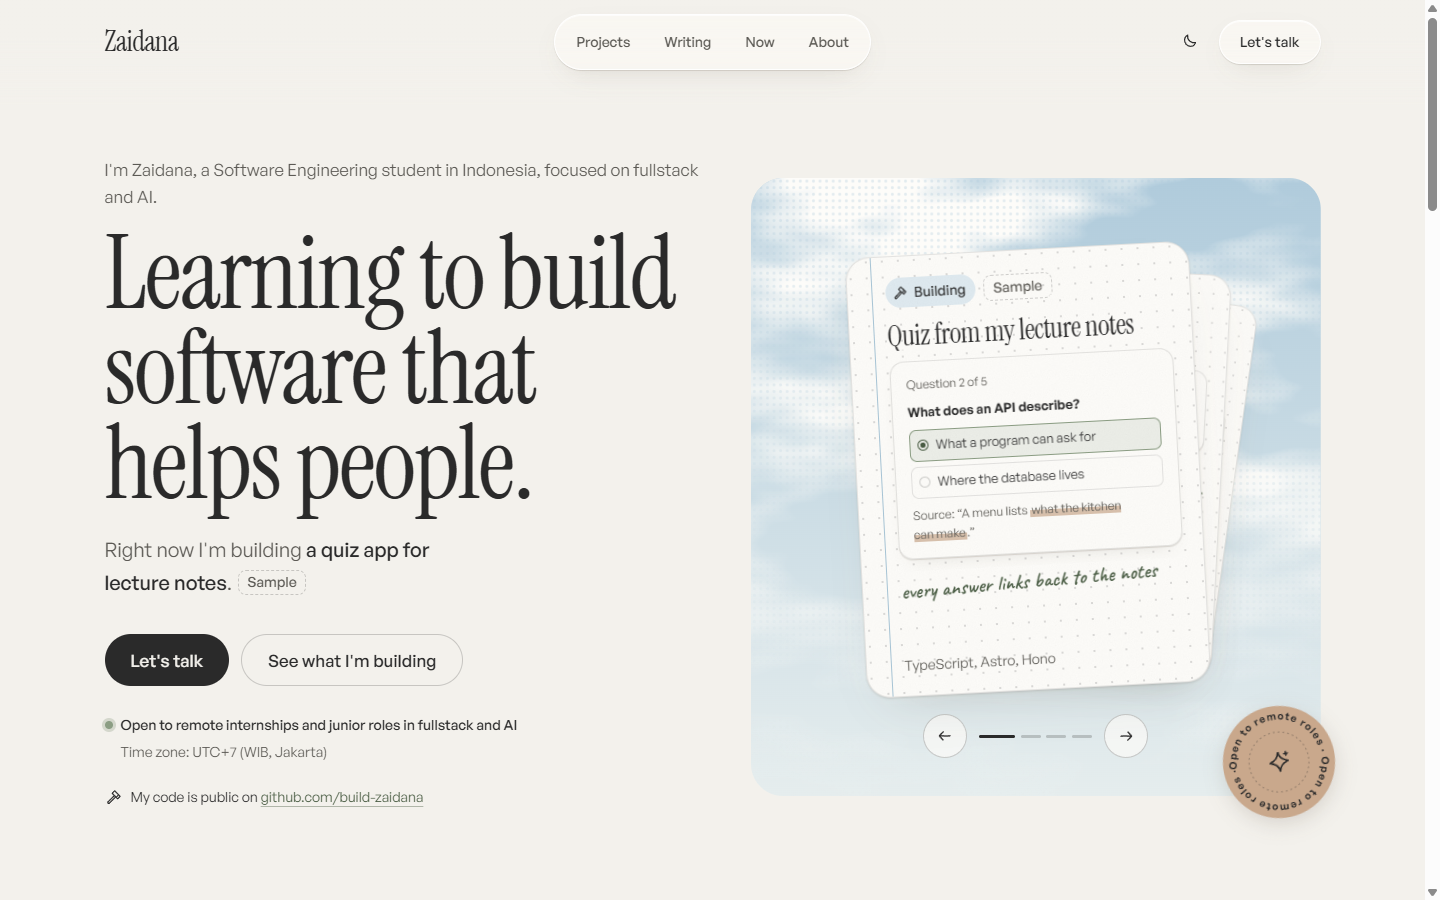
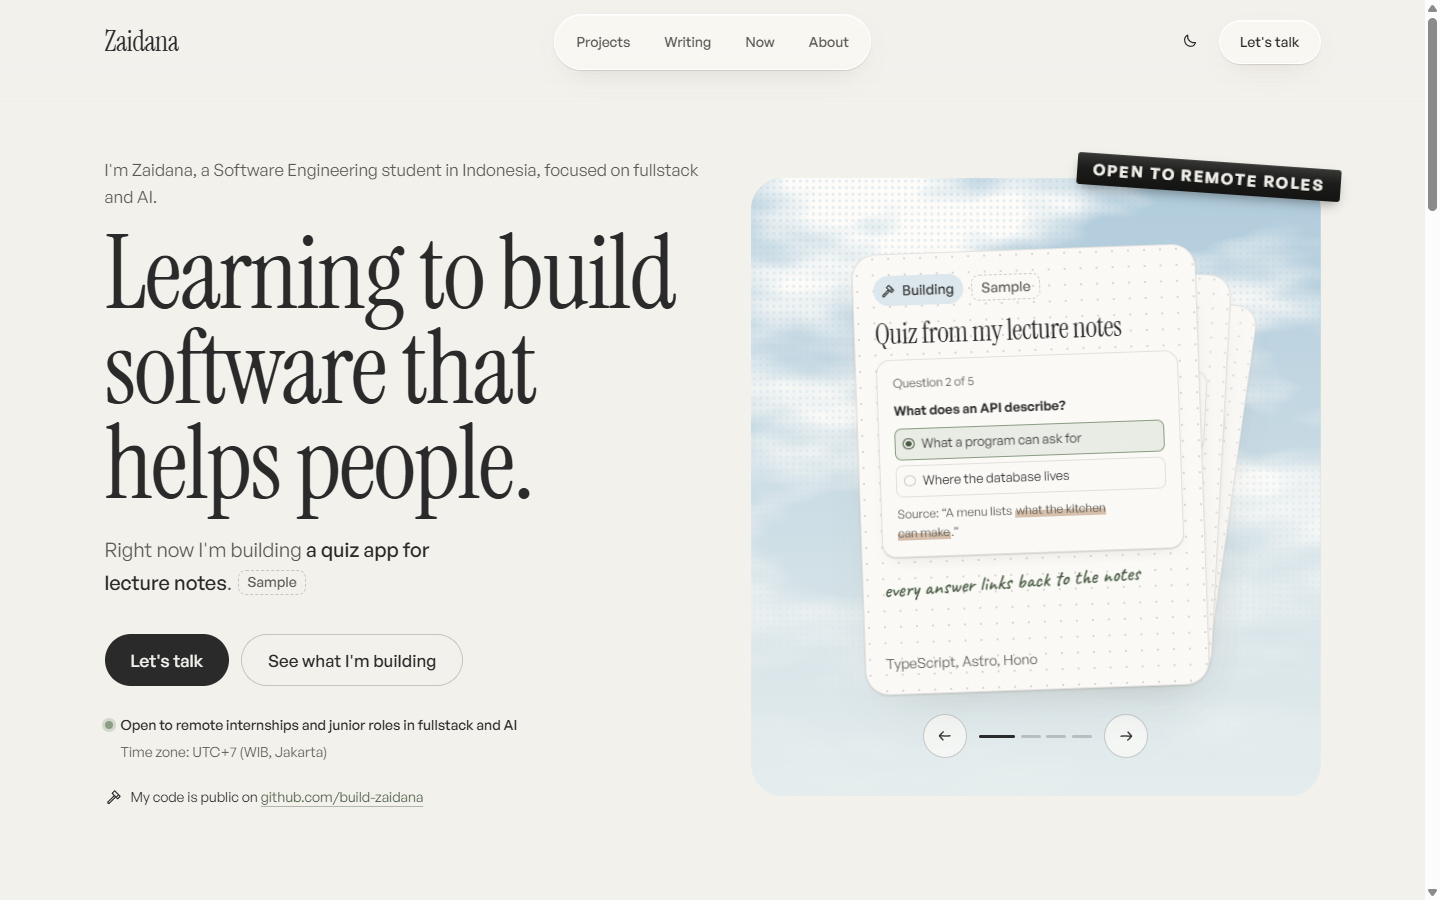
docs: status colors, label strip, rejected journal /now; screenshots

diff --git a/ARCHITECTURE.md b/ARCHITECTURE.md
@@ -51,7 +51,7 @@
 │   │   ├── SiteHeader.astro  # nav pil + menu mobile
 │   │   ├── SiteFooter.astro
 │   │   ├── WhereNext.astro   # 4 pintu navigasi (daylight)
-│   │   ├── ui/               # Button, StatusChip, SampleBadge, SketchIcon, SketchFilter, Sticker, ProgressiveFade
+│   │   ├── ui/               # Button, StatusChip, SampleBadge, SketchIcon, SketchFilter, LabelStrip, ProgressiveFade
 │   │   ├── cards/            # ProjectCard + ProjectArt (craft), WritingCard (notch), CalmCard (letters)
 │   │   └── home/             # Hero, HeroStack (perilaku), HeroCardFace (isi card notebook), SkyBackdrop, StoryReveal
 │   └── pages/              # routing berbasis file
@@ -89,7 +89,7 @@ Paralel dengan itu, `integrations/sample-report.ts` membaca frontmatter langsung
 
 **Hero stack:** `getHeroCards()` mengambil proyek teratas, entri /now terbaru, dan tulisan terbaru, lalu selalu menambahkan card asli "This site". Kata kerja kalimat hero mengikuti status proyek (idea → planning, building → building, shipped → improving). Field opsional `phrase` di proyek/tulisan dipakai untuk kalimat, dengan fallback judul berkutip. Kalau card depan adalah sample, kalimatnya ikut berlabel Sample.
 
-**Isi card (notebook):** card adalah halaman kertas dot-grid dengan garis margin berwarna aksen (`HeroStack`). `HeroCardFace` menggambar isi spesifik per jenis card sebagai "printout" lurus, ditambah checklist (progres situs dari `siteProgress` di `site.ts`, topik belajar lain dari /now) yang disembunyikan di layar < 768px. Field opsional di konten: `heroNote` (catatan tangan, proyek/tulisan/now), `highlight` (frasa yang distabilo di paragraf pembuka artikel, diambil otomatis dari body), `snippet` (kode di entri /now). Tanpa field itu, card tetap tampil tanpa elemen tersebut.
+**Isi card (notebook):** card adalah halaman kertas dot-grid tanpa garis margin (`HeroStack`). `HeroCardFace` menggambar isi spesifik per jenis card sebagai "printout" lurus, ditambah checklist (progres situs dari `siteProgress` di `site.ts`, topik belajar lain dari /now) yang disembunyikan di layar < 768px. Field opsional di konten: `heroNote` (catatan tangan, proyek/tulisan/now), `highlight` (frasa yang distabilo di paragraf pembuka artikel, diambil otomatis dari body), `snippet` (kode di entri /now). Tanpa field itu, card tetap tampil tanpa elemen tersebut.
 
 ## 4. Design tokens
 
@@ -113,7 +113,9 @@ Warna dipetakan ke utility Tailwind di `global.css` lewat `@theme inline` (`bg-p
 | Aksen teks (link, focus) | `--accent` | `#4a5d44` sage tua | `#aec2a5` sage muda |
 | Aksen permukaan | `--sage` `--sky` `--tan` | `#8b9d83` `#a8c5d6` `#c9a88c` | sama / sedikit lebih terang |
 | Teks di atas isian aksen | `--on-fill` | `#2a2a2a` | `#161915` |
-| Tint card proyek | `--tint-sage/sky/tan` | pastel terang | versi gelap berwarna |
+| Card proyek (warna = status) | `--tint-building` (building), garis putus-putus (idea), `--deep-sage` (shipped) | `#d9e2d2` | `#26301f` |
+| Tint chip card hero | `--tint-sage/sky/tan` | pastel terang | versi gelap berwarna |
+| Strip label | `--tape` + `--on-tape` | `#1c1c1a` / `#f1efe9` | sama (plastik hitam) |
 | Card tulisan gelap | `--deep-sage`, `--deep-ink` + `--on-deep(-soft)` | `#3e4b39`, `#2a2a2a` | `#33402f`, `#332c25` (selalu lebih terang dari halaman) |
 
 Sage = aksen utama, sky = pendukung, tan = isian hover yang hangat. **Tidak ada navy/biru tua.** `--sage`, `--sky`, dan `--tan` terlalu terang untuk teks, jadi hanya dipakai sebagai permukaan (sesuai CLAUDE.md).
@@ -128,17 +130,24 @@ Sage = aksen utama, sky = pendukung, tan = isian hover yang hangat. **Tidak ada 
 | light | `--ink` | `--surface` | 11.02:1 | ✅ | Text on calm cards |
 | light | `--ink-soft` | `--surface` | 5.29:1 | ✅ | Secondary text on calm cards |
 | light | `--ink` | `--surface-raised` | 13.99:1 | ✅ | Nav, raised panels |
-| light | `--ink` | `--tint-sage` | 11.39:1 | ✅ | Project card (sage) |
-| light | `--ink-soft` | `--tint-sage` | 5.47:1 | ✅ | Project card meta (sage) |
-| light | `--ink` | `--tint-sky` | 11.73:1 | ✅ | Project card (sky) |
-| light | `--ink-soft` | `--tint-sky` | 5.63:1 | ✅ | Project card meta (sky) |
-| light | `--ink` | `--tint-tan` | 11.45:1 | ✅ | Project card (tan) |
-| light | `--ink-soft` | `--tint-tan` | 5.50:1 | ✅ | Project card meta (tan) |
+| light | `--ink` | `--tint-building` | 10.77:1 | ✅ | Project card (building) |
+| light | `--ink-soft` | `--tint-building` | 5.17:1 | ✅ | Project card meta (building) |
+| light | `--on-deep` | `--deep-sage` | 8.26:1 | ✅ | Project card (shipped) |
+| light | `--on-deep-soft` | `--deep-sage` | 5.40:1 | ✅ | Project card meta (shipped) |
+| light | `--on-tape` | `--tape` | 14.84:1 | ✅ | Label strip (hero) |
+| light | `--ink` | `--tint-sage` | 11.39:1 | ✅ | Hero card chip (sage) |
+| light | `--ink` | `--tint-sky` | 11.73:1 | ✅ | Hero card chip (sky) |
+| light | `--ink` | `--tint-tan` | 11.45:1 | ✅ | Hero card chip (tan) |
 | light | `--on-deep` | `--deep-sage` | 8.26:1 | ✅ | Writing card (deep sage) |
 | light | `--on-deep` | `--deep-ink` | 12.81:1 | ✅ | Writing card (charcoal) |
 | light | `--on-deep-soft` | `--deep-sage` | 5.40:1 | ✅ | Writing card meta (deep sage) |
 | light | `--on-deep-soft` | `--deep-ink` | 8.37:1 | ✅ | Writing card meta (charcoal) |
 | light | `--paper` | `--ink` | 12.72:1 | ✅ | Primary button label |
+| light | `--accent` | `--tint-sky` | 5.84:1 | ✅ | Handwritten notes on hero cards (sky) |
+| light | `--accent` | `--tint-sage` | 5.67:1 | ✅ | Handwritten notes on hero cards (sage) |
+| light | `--accent` | `--tint-tan` | 5.70:1 | ✅ | Handwritten notes on hero cards (tan) |
+| light | `--accent` | `--surface-raised` | 6.96:1 | ✅ | Code keywords |
+| light | `--code-type` | `--surface-raised` | 5.69:1 | ✅ | Code type names and numbers |
 | light | `--on-fill` | `--sage` | 4.95:1 | ✅ | Text on sage fill (hover states) |
 | light | `--on-fill` | `--sky` | 7.94:1 | ✅ | Arrow button on sky |
 | light | `--on-fill` | `--tan` | 6.47:1 | ✅ | Hover fill on tan |
@@ -148,17 +157,24 @@ Sage = aksen utama, sky = pendukung, tan = isian hover yang hangat. **Tidak ada 
 | dark | `--ink` | `--surface` | 13.25:1 | ✅ | Text on calm cards |
 | dark | `--ink-soft` | `--surface` | 6.59:1 | ✅ | Secondary text on calm cards |
 | dark | `--ink` | `--surface-raised` | 11.52:1 | ✅ | Nav, raised panels |
-| dark | `--ink` | `--tint-sage` | 12.29:1 | ✅ | Project card (sage) |
-| dark | `--ink-soft` | `--tint-sage` | 6.12:1 | ✅ | Project card meta (sage) |
-| dark | `--ink` | `--tint-sky` | 12.83:1 | ✅ | Project card (sky) |
-| dark | `--ink-soft` | `--tint-sky` | 6.38:1 | ✅ | Project card meta (sky) |
-| dark | `--ink` | `--tint-tan` | 12.71:1 | ✅ | Project card (tan) |
-| dark | `--ink-soft` | `--tint-tan` | 6.32:1 | ✅ | Project card meta (tan) |
+| dark | `--ink` | `--tint-building` | 11.45:1 | ✅ | Project card (building) |
+| dark | `--ink-soft` | `--tint-building` | 5.70:1 | ✅ | Project card meta (building) |
+| dark | `--on-deep` | `--deep-sage` | 9.11:1 | ✅ | Project card (shipped) |
+| dark | `--on-deep-soft` | `--deep-sage` | 5.37:1 | ✅ | Project card meta (shipped) |
+| dark | `--on-tape` | `--tape` | 14.84:1 | ✅ | Label strip (hero) |
+| dark | `--ink` | `--tint-sage` | 12.29:1 | ✅ | Hero card chip (sage) |
+| dark | `--ink` | `--tint-sky` | 12.83:1 | ✅ | Hero card chip (sky) |
+| dark | `--ink` | `--tint-tan` | 12.71:1 | ✅ | Hero card chip (tan) |
 | dark | `--on-deep` | `--deep-sage` | 9.11:1 | ✅ | Writing card (deep sage) |
 | dark | `--on-deep` | `--deep-ink` | 11.43:1 | ✅ | Writing card (charcoal) |
 | dark | `--on-deep-soft` | `--deep-sage` | 5.37:1 | ✅ | Writing card meta (deep sage) |
 | dark | `--on-deep-soft` | `--deep-ink` | 6.73:1 | ✅ | Writing card meta (charcoal) |
 | dark | `--paper` | `--ink` | 14.74:1 | ✅ | Primary button label |
+| dark | `--accent` | `--tint-sky` | 8.13:1 | ✅ | Handwritten notes on hero cards (sky) |
+| dark | `--accent` | `--tint-sage` | 7.79:1 | ✅ | Handwritten notes on hero cards (sage) |
+| dark | `--accent` | `--tint-tan` | 8.05:1 | ✅ | Handwritten notes on hero cards (tan) |
+| dark | `--accent` | `--surface-raised` | 7.30:1 | ✅ | Code keywords |
+| dark | `--code-type` | `--surface-raised` | 7.65:1 | ✅ | Code type names and numbers |
 | dark | `--on-fill` | `--sage` | 6.12:1 | ✅ | Text on sage fill (hover states) |
 | dark | `--on-fill` | `--sky` | 10.90:1 | ✅ | Arrow button on sky |
 | dark | `--on-fill` | `--tan` | 9.79:1 | ✅ | Hover fill on tan |
@@ -202,7 +218,7 @@ draft: false # true = tidak tampil di production
 Isi artikel…
 ```
 
-**Proyek baru:** buat `src/content/projects/<slug>.md` dengan field `title`, `summary`, `status` (`idea | building | shipped`), `stack`, `startedAt`, `tint` (`sage | sky | tan`), dan opsional `updatedAt`, `repo`, `demo`, `featured`. Body memakai heading **Problem → Approach → Result → Learnings**.
+**Proyek baru:** buat `src/content/projects/<slug>.md` dengan field `title`, `summary`, `status` (`idea | building | shipped`), `stack`, `startedAt`, `tint` (`sage | sky | tan`, hanya untuk chip card hero; warna card proyek mengikuti `status`), dan opsional `updatedAt`, `repo`, `demo`, `featured`. Body memakai heading **Problem → Approach → Result → Learnings**.
 
 **Update /now:** buat file baru per bulan `src/content/now/YYYY-MM.md` (field `month`, `learning`, `building`, `reading`). Entri terbaru otomatis menjadi /now.
 
@@ -253,7 +269,7 @@ Card stack **tidak pernah autoplay**. Durasi 150–400ms. `prefers-reduced-motio
 
 - **Penamaan:** komponen `PascalCase.astro`; modul `lib/` `camelCase.ts`; token CSS `kebab-case`; slug konten `kebab-case` (menjadi URL).
 - **Urutan @media:** aturan `@media` yang menimpa harus ditulis **setelah** aturan dasarnya (specificity sama → yang terakhir menang). Bug ini sudah terjadi dua kali (foto About, checklist hero).
-- **Styling:** Tailwind untuk layout/spacing sederhana di halaman. Efek kompleks (notch, glass, card) memakai `<style>` scoped di komponen dengan `var(--token)`. Hindari nama kelas yang bentrok dengan utility Tailwind (kasus nyata: `.underline`).
+- **Styling:** Tailwind untuk layout/spacing sederhana di halaman. Efek kompleks (notch, glass, card) memakai `<style>` scoped di komponen dengan `var(--token)`. Hindari nama kelas yang bentrok dengan utility Tailwind (kasus nyata: `.underline`, `.col-1`/`.col-2`, yang di Tailwind 4 menjadi `grid-column`).
 - **Scan Tailwind:** Tailwind hanya memindai kode. `docs/`, `.claude/`, dan `*.md` di root dikecualikan dengan `@source not` di `global.css`, karena teks dokumentasi sempat menghasilkan ±2 KB kelas CSS yang tidak terpakai.
 - **Scoped CSS + komponen anak:** selector yang menargetkan root komponen anak butuh `:global()`. Untuk mengubah warna di dalam komponen anak, gunakan custom property (contoh: `--badge-fg` di `SampleBadge`), bukan selector dari luar.
 - **A11y:** satu gaya focus global (`:focus-visible`, outline `--focus`). Target sentuh ≥ 44px. Card yang bisa diklik memakai pola *stretched link* (satu `<a>` di judul, `::after` menutupi card). Skip link memakai pola *visually hidden* (clip).
@@ -291,3 +307,5 @@ Card stack **tidak pernah autoplay**. Durasi 150–400ms. `prefers-reduced-motio
 | 015 | Scroll reveal dengan CSS scroll-driven animations | Nol JS, mudah dimatikan, fallback teks penuh | GSAP ScrollTrigger |
 | 016 | Timeline sebagai collection `file()` YAML | Satu file mudah diedit, ikut guard sample | Array di halaman (lolos dari guard) |
 | 017 | Card hero bergaya notebook dengan isi dari field konten | Personal dan spesifik, tapi tetap data-driven (tidak ada klaim hardcoded) | Skeleton generik (terlalu polos), kolase (bertabrakan dengan tumpukan) |
+| 018 | Warna card proyek mengikuti status | Warna punya makna dan jujur (ide tampil sebagai sketsa); status tetap tertulis di chip (WCAG 1.4.1) | Tiga pastel per proyek (kusam, acak), satu warna (datar), kertas notebook (mengulang motif hero), pastel lebih jenuh |
+| 019 | Strip label ketikan menggantikan stiker bundar di hero | Lebih khas dan terbaca; diambil dari referensi journaling tanpa membawa gaya scrapbook | Stiker bundar, /now bergaya jurnal (ditolak user: terlalu ramai) |

diff --git a/docs/keywords.md b/docs/keywords.md
@@ -67,6 +67,10 @@
 | `css radial-gradient pattern` | CSS | HeroStack (kertas dot-grid) | 2 |
 | `multiple backgrounds` | CSS | HeroStack (garis margin + titik + kertas) | 2 |
 | `css cascade source order` | CSS | HeroCardFace, about (bug urutan @media) | 2 |
+| `css attribute selector` | CSS | ProjectCard (warna per status) | 2 |
+| `border-style dashed` | CSS | ProjectCard (idea = sketsa) | 2 |
+| `text-shadow emboss` | CSS | LabelStrip | 2 |
+| `tailwind grid-column col-*` | Tailwind | Konvensi nama kelas (bentrok) | 2 |
 
 ## Design / Typography
 
@@ -82,7 +86,7 @@
 | `svg textPath` | Illustration | Sticker | 2 |
 | `svg feColorMatrix` | Illustration | SkyBackdrop (clouds) | 2 |
 | `svg mask halftone` | Illustration | SkyBackdrop | 2 |
-| `seeded PRNG mulberry32` | Illustration | SkyBackdrop (stars) | 2 |
+| `seeded PRNG mulberry32` | Illustration | SkyBackdrop (stars), LabelStrip (letter wobble) | 2 |
 | `fontsource caveat` | Typography | Catatan tangan di card hero | 2 |
 | `svg feTurbulence data uri` | Illustration | HeroStack (tekstur kertas) | 2 |
 | `mix-blend-mode multiply` | Illustration | HeroStack (tekstur kertas) | 2 |
@@ -107,6 +111,8 @@
 | `aria-live polite` | A11y | Hero phrase | 2 |
 | `wcag 4.1.3 status messages` | A11y | Hero phrase | 2 |
 | `sr-only opens in a new tab` | A11y | Hero proof link | 2 |
+| `wcag 1.4.1 use of color` | A11y | ProjectCard (status tetap tertulis) | 2 |
+| `aria-hidden per-character span` | A11y | LabelStrip (teks dibaca sekali lewat sr-only) | 2 |
 
 ## Animation
 
